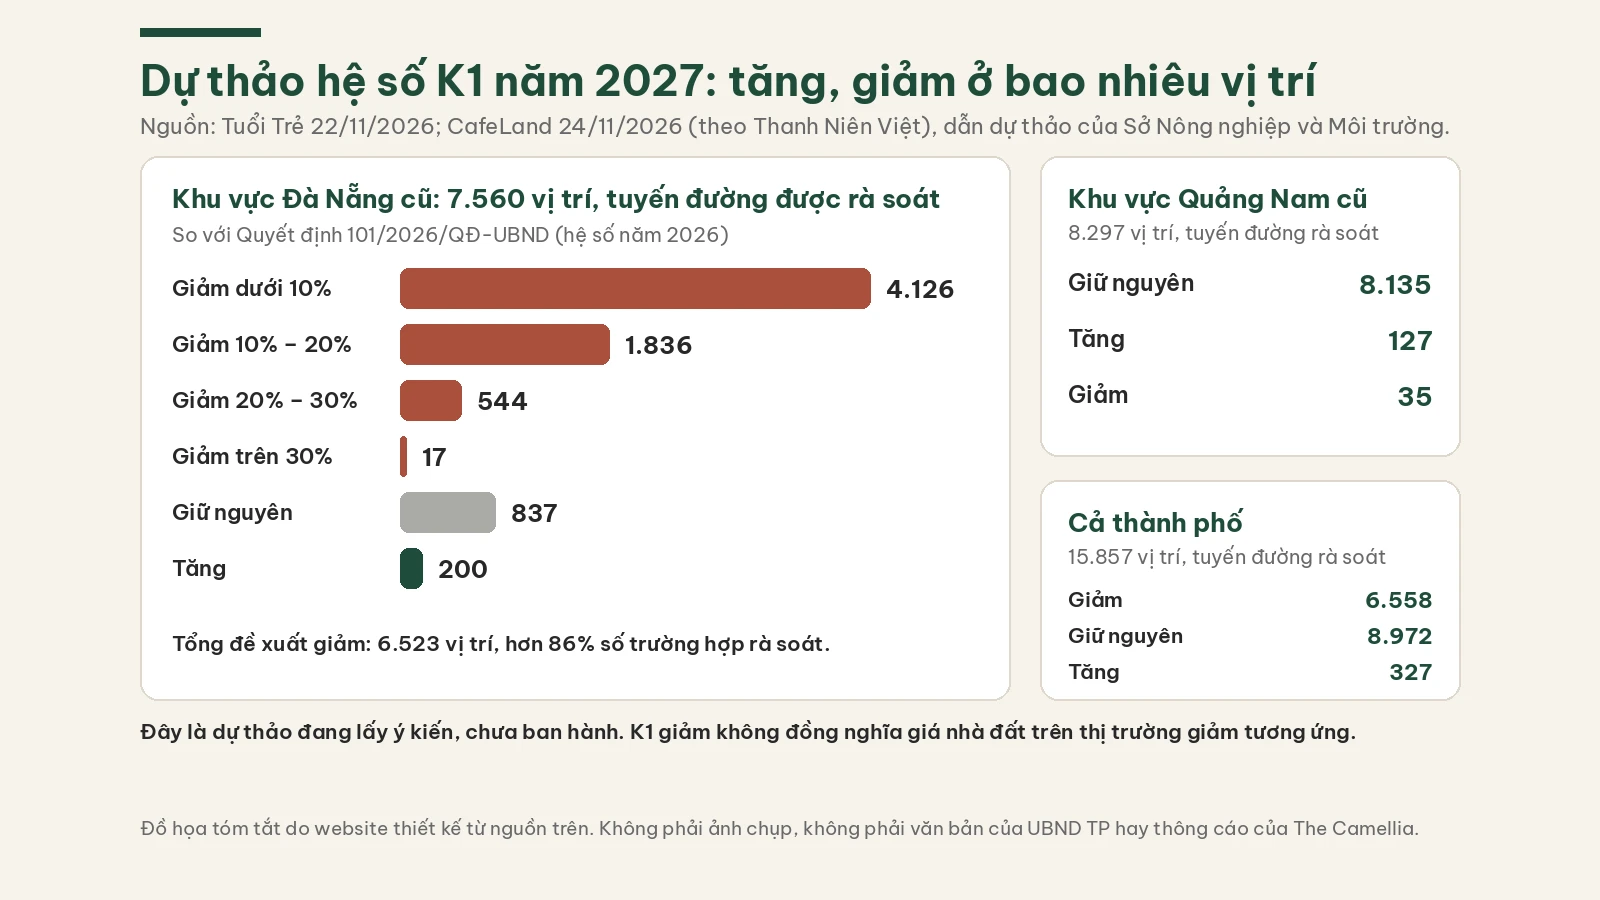
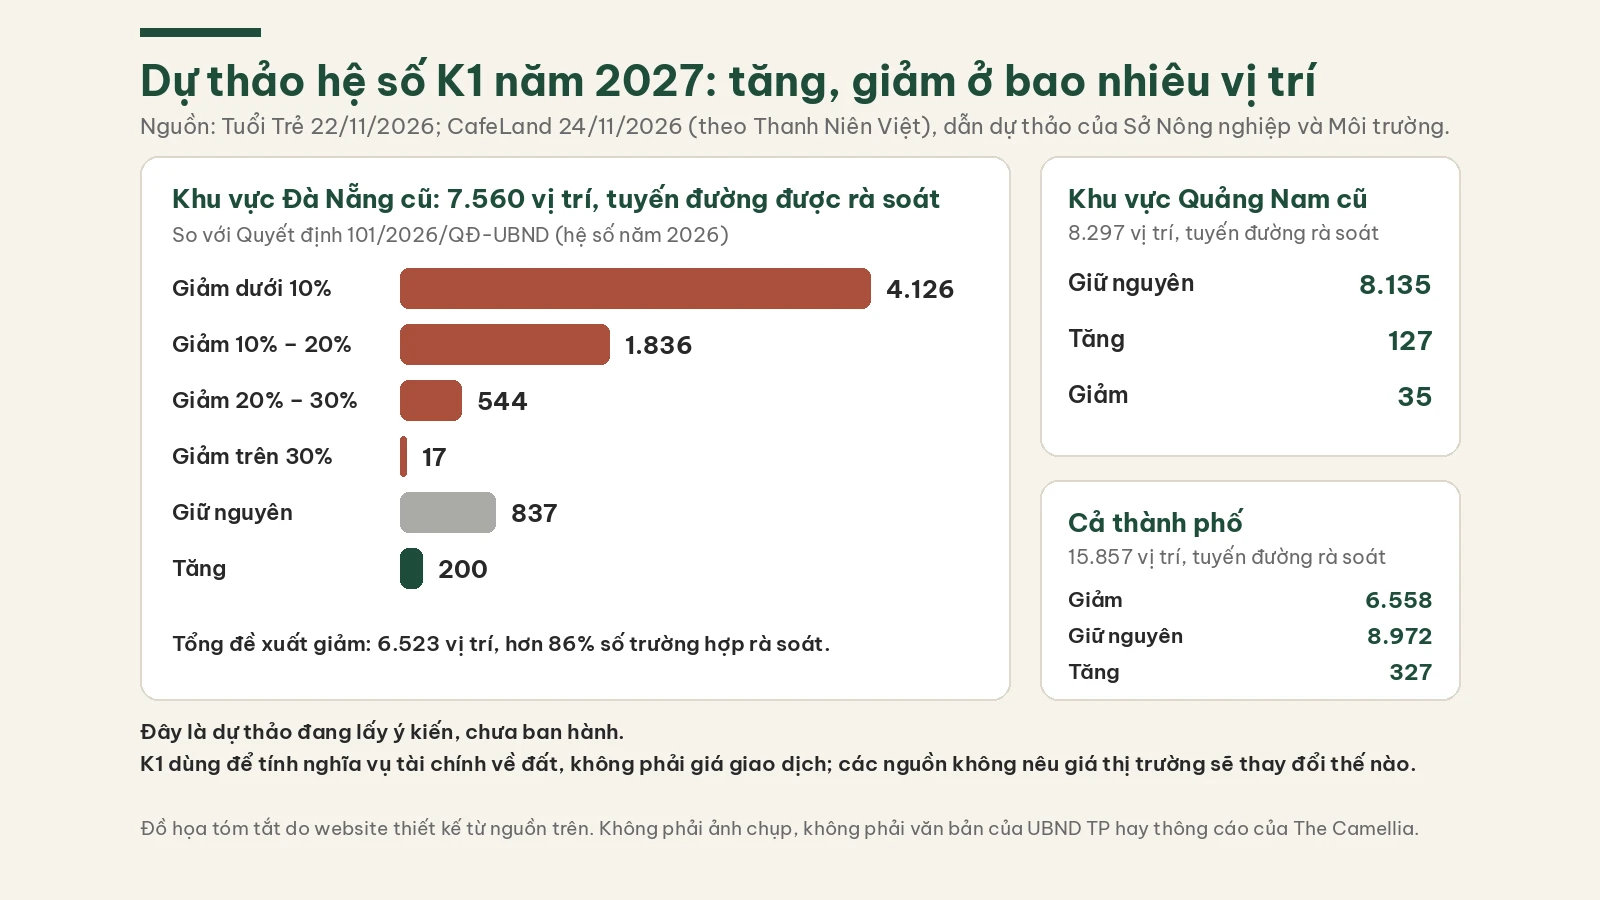
content: hệ số giá đất 2027 — áp góp ý câu chữ của Luna (nguồn Thanh Niên Việt, chú thích nhóm %, phường Sơn Trà, thời điểm tính tiền, infographic)

Changed region(s): [[0.0938, 0.8089, 0.875, 0.8711]]

diff --git a/src/data/news/articles/he-so-dieu-chinh-gia-dat-da-nang-2027-25-11-2026.ts b/src/data/news/articles/he-so-dieu-chinh-gia-dat-da-nang-2027-25-11-2026.ts
@@ -24,7 +24,7 @@ export const article = {
   ],
   body: [
     {
-      text: "Ngày 22/11/2026, Sở Nông nghiệp và Môi trường TP Đà Nẵng cho biết đang lấy ý kiến dự thảo quyết định quy định hệ số điều chỉnh giá đất năm 2027, dự kiến trình thông qua trong tháng 12/2026 để áp dụng từ ngày 1/1/2027 (Tuổi Trẻ, 22/11/2026). Theo dự thảo tờ trình mà CafeLand (24/11/2026, theo Thanh Niên Việt) dẫn lại, ở khu vực Đà Nẵng cũ có 7.560 vị trí, tuyến đường, đoạn đường được rà soát; 6.523 trường hợp được đề xuất giảm hệ số điều chỉnh mức biến động thị trường (K1) so với năm 2026, 837 giữ nguyên và 200 tăng. Sở đề nghị các cơ quan, đơn vị, địa phương gửi góp ý trước ngày 29/11.",
+      text: "Ngày 22/11/2026, Sở Nông nghiệp và Môi trường TP Đà Nẵng cho biết đang lấy ý kiến dự thảo quyết định quy định hệ số điều chỉnh giá đất năm 2027, dự kiến trình thông qua trong tháng 12/2026 để áp dụng từ ngày 1/1/2027 (Tuổi Trẻ, 22/11/2026). Theo dự thảo tờ trình mà Thanh Niên Việt (24/11/2026; CafeLand đăng lại) dẫn lại, ở khu vực Đà Nẵng cũ có 7.560 vị trí, tuyến đường, đoạn đường được rà soát; 6.523 trường hợp được đề xuất giảm hệ số điều chỉnh mức biến động thị trường (K1) so với năm 2026, 837 giữ nguyên và 200 tăng. Sở đề nghị các cơ quan, đơn vị, địa phương gửi góp ý trước ngày 29/11.",
     },
     {
       text: "Đây là bài tổng hợp báo chí về một dự thảo đang lấy ý kiến, chưa phải quyết định đã ban hành. Bài không phải văn bản của UBND TP Đà Nẵng hay Sở Nông nghiệp và Môi trường, và không phải thông cáo của The Camellia Sơn Trà. Các con số có thể thay đổi khi dự thảo được hoàn thiện.",
@@ -46,10 +46,10 @@ export const article = {
     },
     {
       heading: "Khu vực Đà Nẵng cũ: phần lớn vị trí đề xuất giảm K1",
-      text: "Theo CafeLand (24/11/2026), trong 6.523 trường hợp đề xuất giảm ở khu vực Đà Nẵng cũ, nhóm giảm dưới 10% đông nhất với 4.126 trường hợp; 1.836 trường hợp giảm từ trên 10% đến 20%; 544 trường hợp giảm từ trên 20% đến 30%; 17 trường hợp giảm trên 30%. Tuổi Trẻ (22/11/2026) cho biết hệ số K1 cao nhất chủ yếu ở các địa bàn Hải Vân, Hòa Khánh và Hòa Vang. Khu vực Quảng Nam cũ gần như không đổi: trong 8.297 vị trí, tuyến đường được rà soát, 8.135 giữ nguyên, 127 tăng và 35 giảm; K1 chủ yếu ở mức 1,0, cao hơn ở các phường Hội An, Hội An Tây, Hội An Đông và các xã Điện Bàn Tây, Tam Anh, Tam Xuân. Tính cả hai khu vực, trong 15.857 trường hợp rà soát, 6.558 đề xuất giảm, 8.972 giữ nguyên và 327 tăng.",
+      text: "Theo CafeLand (24/11/2026), trong 6.523 trường hợp đề xuất giảm ở khu vực Đà Nẵng cũ, nhóm giảm dưới 10% đông nhất với 4.126 trường hợp; 1.836 trường hợp giảm từ trên 10% đến 20%; 544 trường hợp giảm từ trên 20% đến 30%; 17 trường hợp giảm trên 30% (Tuổi Trẻ ghi nhóm này là “từ 30% trở lên”, nhóm thấp nhất là “từ 0,1% đến dưới 10%”). Tuổi Trẻ (22/11/2026) cho biết hệ số K1 cao nhất chủ yếu ở các địa bàn Hải Vân, Hòa Khánh và Hòa Vang. Khu vực Quảng Nam cũ gần như không đổi: trong 8.297 vị trí, tuyến đường được rà soát, 8.135 giữ nguyên, 127 tăng và 35 giảm; K1 chủ yếu ở mức 1,0, cao hơn ở các phường Hội An, Hội An Tây, Hội An Đông và các xã Điện Bàn Tây, Tam Anh, Tam Xuân. Tính cả hai khu vực, trong 15.857 trường hợp rà soát, 6.558 đề xuất giảm, 8.972 giữ nguyên và 327 tăng.",
       image: "/images/news-he-so-gia-dat-2511-body-k1-2027.webp",
       imageAlt:
-        "Đồ họa thanh ngang về dự thảo K1 năm 2027 ở khu vực Đà Nẵng cũ (7.560 vị trí): giảm dưới 10% 4.126; giảm 10–20% 1.836; giảm 20–30% 544; giảm trên 30% 17; giữ nguyên 837; tăng 200; tổng đề xuất giảm 6.523, hơn 86%. Khu vực Quảng Nam cũ (8.297 vị trí): giữ nguyên 8.135, tăng 127, giảm 35. Cả thành phố (15.857 vị trí): giảm 6.558, giữ nguyên 8.972, tăng 327. Không phải ảnh chụp.",
+        "Đồ họa thanh ngang về dự thảo K1 năm 2027 ở khu vực Đà Nẵng cũ (7.560 vị trí): giảm dưới 10% 4.126; giảm 10–20% 1.836; giảm 20–30% 544; giảm trên 30% 17; giữ nguyên 837; tăng 200; tổng đề xuất giảm 6.523, hơn 86%. Khu vực Quảng Nam cũ (8.297 vị trí): giữ nguyên 8.135, tăng 127, giảm 35. Cả thành phố (15.857 vị trí): giảm 6.558, giữ nguyên 8.972, tăng 327. Đây là dự thảo đang lấy ý kiến, chưa ban hành. K1 dùng để tính nghĩa vụ tài chính về đất, không phải giá giao dịch; các nguồn không nêu giá thị trường sẽ thay đổi thế nào. Không phải ảnh chụp.",
       imageCaption:
         "Đồ họa tóm tắt do website thiết kế từ Tuổi Trẻ và CafeLand. Không phải ảnh chụp.",
     },
@@ -58,7 +58,7 @@ export const article = {
       text: "Theo báo cáo thuyết minh (CafeLand dẫn), các tuyến đề xuất giảm trên 30% tại vị trí 1 gồm An Cư 1, An Cư 2, An Cư 3 (phường An Hải) và Bích Khê (phường Hòa Xuân). Ba tuyến An Cư cuối năm 2025 có một số giao dịch giá cao, nay điều chỉnh để tương đồng với các tuyến lân cận; đường Bích Khê gần khu Cồn Dầu từng có giá giao dịch tăng đột biến cuối năm 2025, sau đó giá đất Hòa Xuân giảm đáng kể. 13 trường hợp giảm trên 30% còn lại thuộc phường Hòa Xuân, phường Ngũ Hành Sơn và khu dân cư nhà vườn Hòa Ninh (xã Bà Nà). Ở chiều tăng, Tuổi Trẻ nêu ví dụ tuyến ĐH 2 thuộc phường Hòa Khánh, giáp xã Bà Nà, nhằm thu hẹp chênh lệch vùng giáp ranh. Về mức tuyệt đối, giá theo bảng giá đất nhân K1 đề xuất cao nhất khu vực Đà Nẵng cũ là đường Võ Nguyên Giáp, đoạn Phạm Văn Đồng – Võ Văn Kiệt, khoảng 447,9 triệu đồng/m²; tiếp theo là đoạn Võ Văn Kiệt – Phan Tứ, khoảng 369,3 triệu đồng/m². Ở khu vực Quảng Nam cũ, cao nhất là đường Trần Phú, đoạn ngã tư Lê Lợi – Chùa Cầu (phường Hội An), hơn 230,4 triệu đồng/m². Các mức này chưa tính K2, K3.",
       image: "/images/news-he-so-gia-dat-2511-body-tuyen-duong.webp",
       imageAlt:
-        "Đồ họa sáu thẻ: An Cư 1, 2, 3 (phường An Hải) và Bích Khê (phường Hòa Xuân, gần Cồn Dầu) đề xuất giảm K1 trên 30%; 13 vị trí khác giảm trên 30% ở Hòa Xuân, Ngũ Hành Sơn, khu nhà vườn Hòa Ninh; tuyến ĐH 2 (Hòa Khánh, giáp Bà Nà) tăng hệ số; mức bảng giá nhân K1 cao nhất khoảng 447,9 triệu đồng/m² tại Võ Nguyên Giáp đoạn Phạm Văn Đồng – Võ Văn Kiệt; cao nhất Quảng Nam cũ hơn 230,4 triệu đồng/m² tại Trần Phú, Hội An; chưa tính K2, K3. Không phải ảnh chụp.",
+        "Đồ họa sáu thẻ: An Cư 1, 2, 3 (phường An Hải) đề xuất giảm K1 trên 30%, điều chỉnh cho tương đồng tuyến lân cận; Bích Khê (phường Hòa Xuân, gần Cồn Dầu) cũng đề xuất giảm trên 30%; 13 vị trí khác giảm trên 30% ở Hòa Xuân, Ngũ Hành Sơn, khu nhà vườn Hòa Ninh; tuyến ĐH 2 (Hòa Khánh, giáp Bà Nà) tăng hệ số; mức bảng giá nhân K1 cao nhất khoảng 447,9 triệu đồng/m² tại Võ Nguyên Giáp đoạn Phạm Văn Đồng – Võ Văn Kiệt; cao nhất Quảng Nam cũ hơn 230,4 triệu đồng/m² tại Trần Phú, Hội An; chưa tính K2, K3. Không phải ảnh chụp.",
       imageCaption:
         "Đồ họa tóm tắt do website thiết kế từ Tuổi Trẻ và CafeLand. Không phải ảnh chụp.",
     },
@@ -67,7 +67,7 @@ export const article = {
       text: "Thứ nhất, hệ số K là công cụ để cơ quan nhà nước tính các khoản liên quan đến đất như tiền sử dụng đất, tiền thuê đất, bồi thường, tái định cư và thuế, không phải giá niêm yết căn hộ hay giá giao dịch. Mức triệu đồng/m² trong dự thảo là giá theo bảng giá đất nhân K1, không phải giá rao bán. Thứ hai, K1 được đề xuất giảm ở nhiều vị trí vì đơn vị tư vấn so bảng giá với giá giao dịch thực tế; báo nêu ví dụ một số khu từng có giao dịch giá cao rồi giảm. Nhưng các nguồn không kết luận giá nhà đất thị trường năm 2027 sẽ tăng hay giảm, nên bài không kết luận. Thứ ba, đây là dự thảo; con số cụ thể của từng tuyến chỉ chắc chắn khi UBND TP ban hành quyết định.",
     },
     {
-      text: "Nếu anh chị đang chuẩn bị làm thủ tục liên quan đến đất trong năm 2027 (chuyển mục đích sử dụng đất, nhận bồi thường, nộp tiền sử dụng đất…), có thể hỏi cơ quan chuyên môn hoặc đơn vị tư vấn: thửa đất thuộc tuyến, đoạn nào trong bảng hệ số; áp hệ số năm 2026 hay năm 2027 tùy thời điểm hồ sơ; và K2, K3 có được tính thêm không. Các nguồn không nêu riêng phường Sơn Trà. Điều có thể theo dõi tiếp: quyết định chính thức của UBND TP dự kiến trong tháng 12/2026 và bảng hệ số kèm theo.",
+      text: "Nếu anh chị đang chuẩn bị làm thủ tục liên quan đến đất trong năm 2027 (chuyển mục đích sử dụng đất, nhận bồi thường, nộp tiền sử dụng đất…), có thể hỏi cơ quan chuyên môn hoặc đơn vị tư vấn: thửa đất thuộc tuyến, đoạn nào trong bảng hệ số; áp hệ số năm 2026 hay năm 2027 (theo Nghị quyết 254/2025/QH15, hệ số do UBND TP ban hành, áp dụng từ 1/1 hằng năm; năm áp dụng tùy thời điểm tính tiền theo quy định); và K2, K3 có được tính thêm không. Các nguồn không nêu số liệu riêng cho phường Sơn Trà (gồm Thọ Quang, Nại Hiên Đông, Mân Thái cũ). Các tuyến An Cư 1–3 và đoạn Võ Nguyên Giáp (Phạm Văn Đồng – Võ Văn Kiệt) thuộc phường An Hải, trước đây cùng quận Sơn Trà; bài không suy ra hệ số hay giá cho các tuyến không được nêu tên. Điều có thể theo dõi tiếp: quyết định chính thức của UBND TP dự kiến trong tháng 12/2026 và bảng hệ số kèm theo.",
       links: [
         {
           to: "/tin-tuc/chon-khu-o-da-nang-son-tra-hai-chau-ngu-hanh-son",
@@ -109,7 +109,7 @@ export const article = {
     },
     {
       heading: "Dự thảo có nhắc tới phường Sơn Trà không?",
-      text: "Các bài báo không nêu riêng phường Sơn Trà. Các tuyến được nêu tên là An Cư 1–3 (phường An Hải), Bích Khê (phường Hòa Xuân), ĐH 2 (phường Hòa Khánh), hai đoạn đường Võ Nguyên Giáp (mức bảng giá nhân K1 cao nhất), và Trần Phú (phường Hội An).",
+      text: "Các nguồn không nêu số liệu riêng cho phường Sơn Trà (gồm Thọ Quang, Nại Hiên Đông, Mân Thái cũ). Các tuyến An Cư 1–3 và đoạn Võ Nguyên Giáp (Phạm Văn Đồng – Võ Văn Kiệt) thuộc phường An Hải, trước đây cùng quận Sơn Trà; bài không suy ra hệ số hay giá cho các tuyến không được nêu tên.",
     },
     {
       heading: "Tin này có làm giá nhà Đà Nẵng thay đổi không?",
@@ -117,7 +117,7 @@ export const article = {
     },
     {
       heading: "Lưu ý",
-      text: "Thông tin tổng hợp từ báo chí về một dự thảo đang lấy ý kiến, mang tính tham khảo, không phải văn bản của UBND TP Đà Nẵng hay Sở Nông nghiệp và Môi trường, và không phải thông cáo của The Camellia Sơn Trà. Số liệu có thể thay đổi khi văn bản được ban hành. Bài không cam kết lợi nhuận. Nguồn: Tuổi Trẻ Online (Trường Trung), 17:46 22/11/2026 — https://tuoitre.vn/hon-4000-tuyen-duong-o-da-nang-duoc-de-xuat-dieu-chinh-he-so-k1-giam-tu-01-den-duoi-10-100261122171514588.htm; CafeLand (Diệu Trang, theo Thanh Niên Việt), 18:34 24/11/2026 — https://cafeland.vn/tin-tuc/da-nang-sap-dieu-chinh-he-so-gia-dat-nam-2027-hang-nghin-vi-tri-duoc-de-xuat-giam-157068.html; Quyết định 101/2026/QĐ-UBND ngày 30/6/2026 của UBND TP Đà Nẵng (hệ số điều chỉnh giá đất năm 2026, hiệu lực 15/7/2026) — https://thuvienphapluat.vn/van-ban/Bat-dong-san/Quyet-dinh-101-2026-QD-UBND-he-so-dieu-chinh-gia-dat-Da-Nang-714079.aspx.",
+      text: "Thông tin tổng hợp từ báo chí về một dự thảo đang lấy ý kiến, mang tính tham khảo, không phải văn bản của UBND TP Đà Nẵng hay Sở Nông nghiệp và Môi trường, và không phải thông cáo của The Camellia Sơn Trà. Số liệu có thể thay đổi khi văn bản được ban hành. Bài không cam kết lợi nhuận. Nguồn: Tuổi Trẻ Online (Trường Trung), 17:46 22/11/2026 — https://tuoitre.vn/hon-4000-tuyen-duong-o-da-nang-duoc-de-xuat-dieu-chinh-he-so-k1-giam-tu-01-den-duoi-10-100261122171514588.htm; Thanh Niên Việt (Diệu Trang), 13:54 24/11/2026 — https://thanhnienviet.vn/da-nang-sap-dieu-chinh-he-so-gia-dat-nam-2027-hang-nghin-vi-tri-duoc-de-xuat-giam-209262411155457617.htm; CafeLand (Diệu Trang, theo Thanh Niên Việt), 18:34 24/11/2026 — https://cafeland.vn/tin-tuc/da-nang-sap-dieu-chinh-he-so-gia-dat-nam-2027-hang-nghin-vi-tri-duoc-de-xuat-giam-157068.html; Quyết định 101/2026/QĐ-UBND ngày 30/6/2026 của UBND TP Đà Nẵng (hệ số điều chỉnh giá đất năm 2026, hiệu lực 15/7/2026) — https://thuvienphapluat.vn/van-ban/Bat-dong-san/Quyet-dinh-101-2026-QD-UBND-he-so-dieu-chinh-gia-dat-Da-Nang-714079.aspx.",
     },
   ],
 } satisfies NewsArticle;
